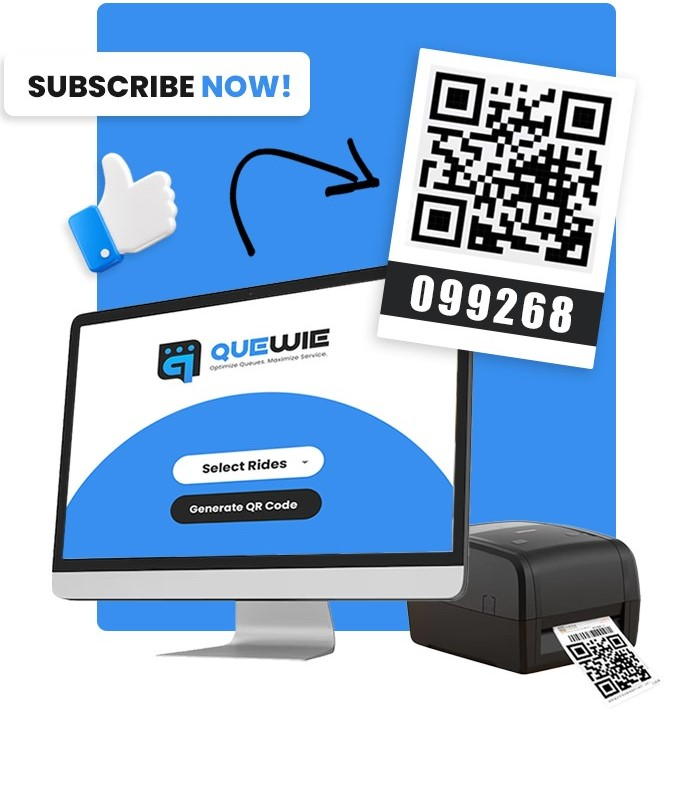
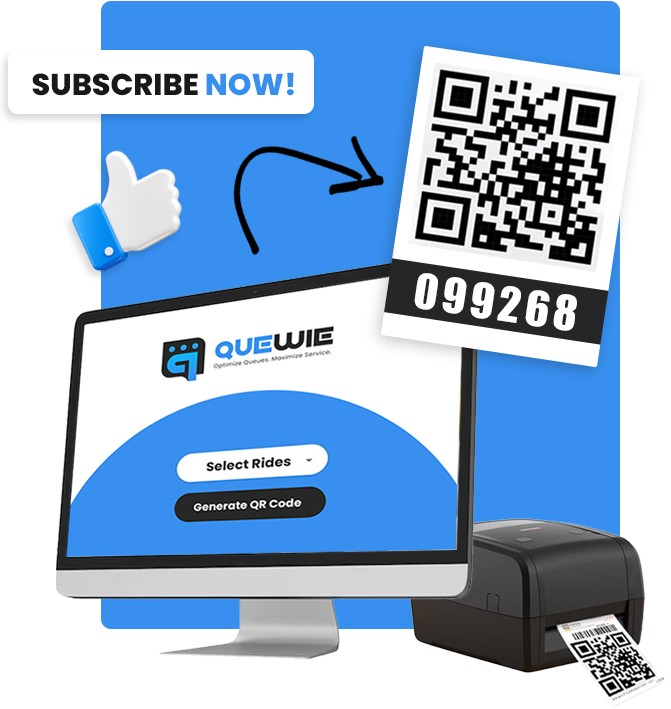
wow

diff --git a/src/components/HeroSection.vue b/src/components/HeroSection.vue
@@ -1,34 +1,50 @@
 <script setup>
 
+
+
 </script>
 
 <template>
-    <div class="flex justify-between h-[660px]    ">
-        <!-- left -->
-        <div class=" z-50">
+    <div class="flex justify-between h-[660px] ">
+        <!-- Left -->
+        <div class="z-50">
             <!-- Description -->
-            <div class=" ml-[110px] leading-none">
-                <p class="font-bold text-[54px] mt-[151px]">REIMAGINE QUEUEING<br></br></p>
-                <p class="text-[85px] font-bold  ">WITH<span class="text-[#388FF0]"> QUEWIE</span> </p>
+            <div class="ml-[110px] leading-none">
+                <p class="font-bold text-[54px] mt-[151px]">
+                    REIMAGINE QUEUEING<br />
+                </p>
+                <p class="text-[85px] font-bold">
+                    WITH <span class="text-[#388FF0]">QUEWIE</span>
+                </p>
             </div>
-            <p class="font-extralight text-[28px] ml-[120px] mt-[15px]"> Say Goodbye to Lines, Hello to Flow</p>
-            <!-- Decription End -->
+            <p class="font-extralight text-[28px] ml-[120px] mt-[15px]">
+                Say Goodbye to Lines, Hello to Flow
+            </p>
             <!-- Email Input -->
-            <div class=" flex mt-[43px] ml-[116px] space-x-[13px] w-[601px]">
+            <div class="flex mt-[43px] ml-[116px] space-x-[13px] w-[601px]">
                 <input type="email" placeholder="Email"
-                    class="border border-[#DEDEDE]  rounded-[5px] w-[343px] h-[56px] text-[24px] pl-4" />
-                <button class="bg-[#388FF0] text-white  rounded-[5px] w-[215px] h-[55px]">Sign up- it's free</button>
+                    class="border border-[#DEDEDE] rounded-[5px] w-[343px] h-[56px] text-[24px] pl-4" />
+                <button class="bg-[#388FF0] text-white rounded-[5px] w-[215px] h-[55px] italic">
+                    Sign up - it's free
+                </button>
             </div>
             <!-- Email Input End -->
-            <!-- bottom description -->
+            <!-- Bottom Description -->
             <div class="mt-[20px] ml-[123px]">
-                <p>By entering my email, I acknowledge the <span class="text-[#64B8FC] underline underline-offset-3">
-                        QUEWIE PRIVACY POLICY</span></p>
+                <p>
+                    By entering my email, I acknowledge the
+                    <span class="text-[#64B8FC] underline underline-offset-3">
+                        QUEWIE PRIVACY POLICY
+                    </span>
+                </p>
             </div>
+            <!-- Bottom description end -->
         </div>
+
         <!-- Right -->
-        <div class="w-full ">
-            <img src="/images/subscribe.jpg" class="h-[660px] absolute right-[90px] top-[94px]" />
+        <div class=" h-full mr-[110px] mt-[94px] ">
+            <img src="/images/subs.jpg" alt="subscribe" class=" h-[550px]  ml-[450px]" />
         </div>
+
     </div>
 </template>

diff --git a/src/components/LearnMoreSection.vue b/src/components/LearnMoreSection.vue
@@ -1,0 +1,67 @@
+<script setup>
+
+</script>
+
+<template>
+    <!-- Parent -->
+    <div class="h-[605px] border p-10">
+        <!-- Sub-Parent -->
+        <div class="h-[529px] border p-5">
+            <!-- Sub-Pagyud -->
+            <div class="h-[358.18px] border mt-15 flex justify-between">
+                <!-- Left Side -->
+                <div class="mt-5 ">
+                    <!-- The quewie way -->
+                    <div class="flex ">
+                        <div class="w-[56.39px] h-[51.07px] bg-[#388FF0] rounded-full"></div>
+                        <p class="font-medium text-[25px] leading-[160%] z-50 mt-2 -ml-9.5">The QUEWIE Way:<span
+                                class="text-[#388FF0]"> Stress-Free Service,<br> Happier Customers</span></p>
+                    </div>
+                    <!-- Quewie description -->
+                    <div class="mt-5 leading-[180%]">
+                        <p class="ml-4 font-normal text-[20px] text-[#696984]">QUEWIE simplifies workflows, eases
+                            employee stress,<br> and ensures faster, smoother service for happier<br> customers.</p>
+                            <!-- Small circle -->
+                        <div
+                            class="absolute rounded-full bg-[#388FF0] opacity-100 w-[23.17px] h-[20.99px] top-475 left-148.5">
+                        </div>
+                    </div>
+                    <!-- Learn More -->
+                    <div class="mt-8">
+                        <a class="underline text-[#696984] text-[22px] font-normal ml-4">Learn More</a>
+                    </div>
+                </div>
+
+                <!-- Right Side -->
+                <div class="relative">
+
+                     <!-- Black rectangle -->
+                    <div class="absolute top-[0] left-[-25px] w-[106.6px] h-[96.54px] rounded-[20px] bg-[#272727] opacity-100"></div>
+
+                    <!-- Blue rectangle -->
+                    <div class="absolute bottom-[0] right-[0] w-[178.44px] h-[161.6px] rounded-[20px] bg-[#388FF0] opacity-100"></div>
+
+                <div class=" mt-3 w-[544.59px] h-[329.55px]">
+                    <!-- Image -->
+                     
+                        <img src="/images/learnmore.jpg" class=" relative w-full h-full rounded-[20px] object-cover -ml-3 " />
+                    
+                    <!-- White circle -->
+                  
+                  <div class="absolute top-1/2 left-1/2 -translate-x-1/2 -translate-y-1/2 w-[54.07px] h-[48.97px] rounded-full bg-white opacity-100"></div>
+                <!-- Play button -->
+                 
+                </div>
+
+                </div>
+               
+
+
+
+
+
+            </div>
+        </div>
+    </div>
+
+</template>

diff --git a/src/components/QuewieAbout.vue b/src/components/QuewieAbout.vue
@@ -1,0 +1,59 @@
+<script setup></script>
+
+<template>
+  
+   
+
+    <!-- Main Container -->
+    <div class=" ml-[110px] mr-[110px]  h-[799px] shadow-2xl rounded-[20px] z-50 bg-white">
+      <!-- Sub-parent -->
+      <div class="h-[697.15px] p-5">
+        <!-- What is Quewie? -->
+        <div class="text-center mt-8">
+          <p class="font-semibold text-[44px]">
+            What is <span class="text-[#2E8FF3]">QUEWIE?</span>
+          </p>
+        </div>
+
+        <!-- About Quewie -->
+        <div class="text-center mt-6">
+          <p class="text-[22px] font-normal text-[#696984] leading-[180%]">
+            QUEWIE is an innovative queue management system that eliminates the
+            hassle of long,<br />
+            disorganized lines. It empowers users to book, track, and manage
+            their spot in real time, while<br />
+            helping businesses and institutions deliver faster, more efficient,
+            and stress-free services. From<br />
+            government offices and hospitals to banks, schools, and entertainment
+            venues, QUEWIE<br />
+            transforms waiting into a seamless experience.
+          </p>
+        </div>
+
+        <!-- Images -->
+        <div class="flex justify-between mt-12">
+          <!-- For Administrator -->
+          <div
+            class="w-[539.54px] h-[360.15px] rounded-[20px] bg-cover bg-center flex items-center justify-center ml-30"
+            style="background-image: url('/images/admin.jpg')">
+            <button
+              class="border border-white text-white px-6 py-3 rounded-lg shadow-lg -mt-4">
+              For Administrator
+            </button>
+          </div>
+
+          <!-- For Guest Experience -->
+          <div
+            class="w-[539.54px] h-[360.15px] rounded-[20px] bg-cover bg-center flex items-center justify-center  mr-30"
+            style="background-image: url('/images/guest.png')">
+            <button
+              class="bg-[#388FF0] w-[254.48px] h-[72.03px] text-white rounded-[80px] -mt-4">
+              For Guest Experience
+            </button>
+          </div>
+        </div>
+      </div>
+    </div>
+    <!-- Main Container End -->
+ 
+</template>

diff --git a/src/components/Header.vue b/src/components/Header.vue
@@ -4,13 +4,12 @@
 
 <template>
     <header
-        class="flex  justify-between items-center bg[#ffffff] h-[94px] w-full shadow-[0_4px_6px_rgba(0,0,0,0.1)] pl-[85px] pr-[85px] text-[16px] font-normal z-100">
+        class="flex fixed z-999 bg-white justify-between items-center bg[#ffffff] h-[94px] w-full shadow-[0_4px_6px_rgba(0,0,0,0.1)] pl-[85px] pr-[85px] text-[16px] font-normal z-100">
 
         <!-- Logo -->
         <div class="">
             <img src="/images/quewielogo.png" class="h-[76px] w-[206px]" />
         </div>
-
         <!-- Nav -->
         <div class=" space-x-13 -ml-[450px] text-black">
             <RouterLink to="" class="">HOME</RouterLink>
@@ -22,7 +21,7 @@
         <!-- Login/Logout -->
         <div class="flex justify-end space-x-3">
             <button>Login</button>
-            <button class="bg-[#3691EF] text-white rounded-[5px]  px-3 py-1">Sign up</button>
+            <button class="bg-[#3691EF] text-white rounded-[5px]  w-[96px] h-[32px]">Sign up</button>
 
         </div>
 

diff --git a/src/Pages/HomePage.vue b/src/Pages/HomePage.vue
@@ -1,12 +1,29 @@
 <script setup>
 import Header from '../components/Header.vue';
 import HeroSection from '../components/HeroSection.vue';
+import LearnMoreSection from '../components/LearnMoreSection.vue';
+import QuewieAbout from '../components/QuewieAbout.vue';
 </script>
 
 <template>
+  <div class="min-h-screen">
+    <Header />
+    <HeroSection />
 
-    <div> 
-        <Header/>
-        <HeroSection/>
+    <!-- Background wrapper -->
+    <div class="relative w-full">
+      <!-- Top gray part -->
+      <div class="w-full h-[300px] bg-gray-200"></div>
+
+      <!-- Bottom blue part -->
+      <div class="w-full h-[650px] bg-blue-500"></div>
+
+      <!-- QuewieAbout stays as-is -->
+      <div class="absolute top-18 w-full">
+        <QuewieAbout />
+      </div>
     </div>
+
+    <LearnMoreSection />
+  </div>
 </template>
